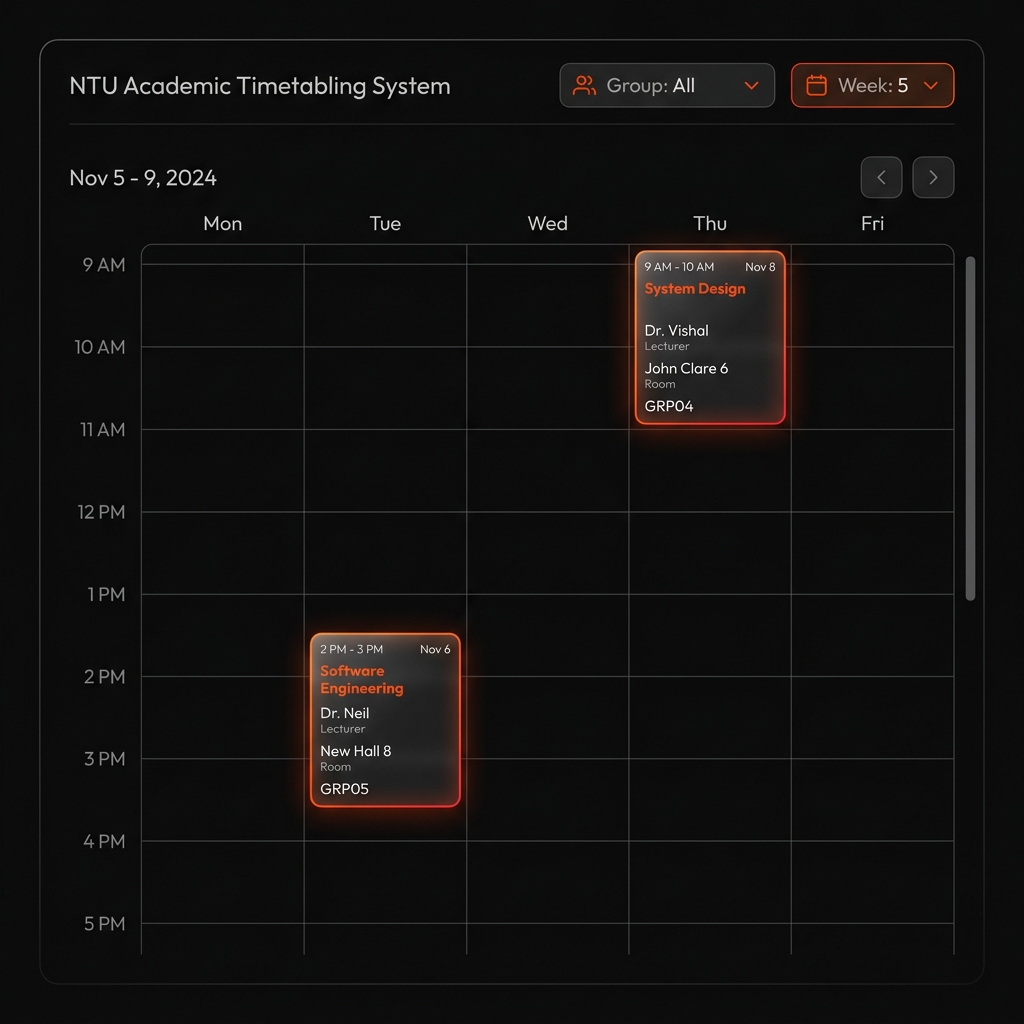
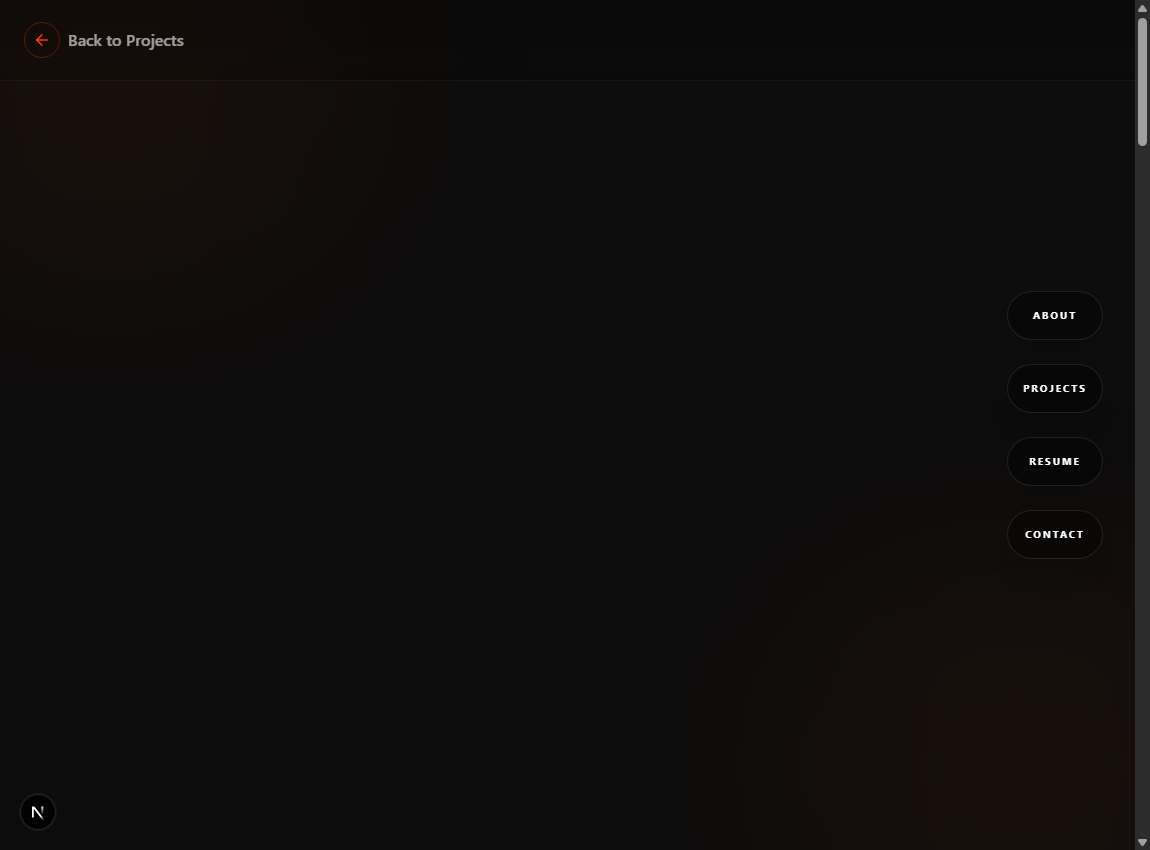
feat: replace mockups with genuine screenshots captured from the live interactive Next.js timetabling simulator component using headless Edge

diff --git a/src/app/projects/[id]/page.tsx b/src/app/projects/[id]/page.tsx
@@ -15,6 +15,14 @@ export default function ProjectDetail() {
   const project = projects.find((p) => p.id === id);
 
   const [selectedImg, setSelectedImg] = useState<string | null>(null);
+  const [isScreenshotMode, setIsScreenshotMode] = useState(false);
+
+  useEffect(() => {
+    if (typeof window !== 'undefined') {
+      const searchParams = new URLSearchParams(window.location.search);
+      setIsScreenshotMode(searchParams.get('screenshot') === 'true');
+    }
+  }, []);
 
   useEffect(() => {
     const handleKeyDown = (e: KeyboardEvent) => {
@@ -25,6 +33,16 @@ export default function ProjectDetail() {
     window.addEventListener('keydown', handleKeyDown);
     return () => window.removeEventListener('keydown', handleKeyDown);
   }, []);
+
+  if (isScreenshotMode) {
+    return (
+      <div className="min-h-screen bg-[#0d0d0d] flex items-center justify-center p-8">
+        <div className="w-full max-w-5xl">
+          <TimetableSimulator />
+        </div>
+      </div>
+    );
+  }
 
   if (!project || !project.details) {
     return (

diff --git a/src/components/TimetableSimulator.tsx b/src/components/TimetableSimulator.tsx
@@ -32,6 +32,16 @@ interface TimetableItem {
 
 export default function TimetableSimulator() {
   const [activeTab, setActiveTab] = useState<'dashboard' | 'calendar' | 'registry' | 'console'>('dashboard');
+
+  useEffect(() => {
+    if (typeof window !== 'undefined') {
+      const params = new URLSearchParams(window.location.search);
+      const tab = params.get('tab');
+      if (tab === 'dashboard' || tab === 'calendar' || tab === 'registry' || tab === 'console') {
+        setActiveTab(tab);
+      }
+    }
+  }, []);
   const [selectedGroup, setSelectedGroup] = useState<string>('ALL');
   const [consoleLogs, setConsoleLogs] = useState<string[]>([]);
   const [isSolving, setIsSolving] = useState(false);